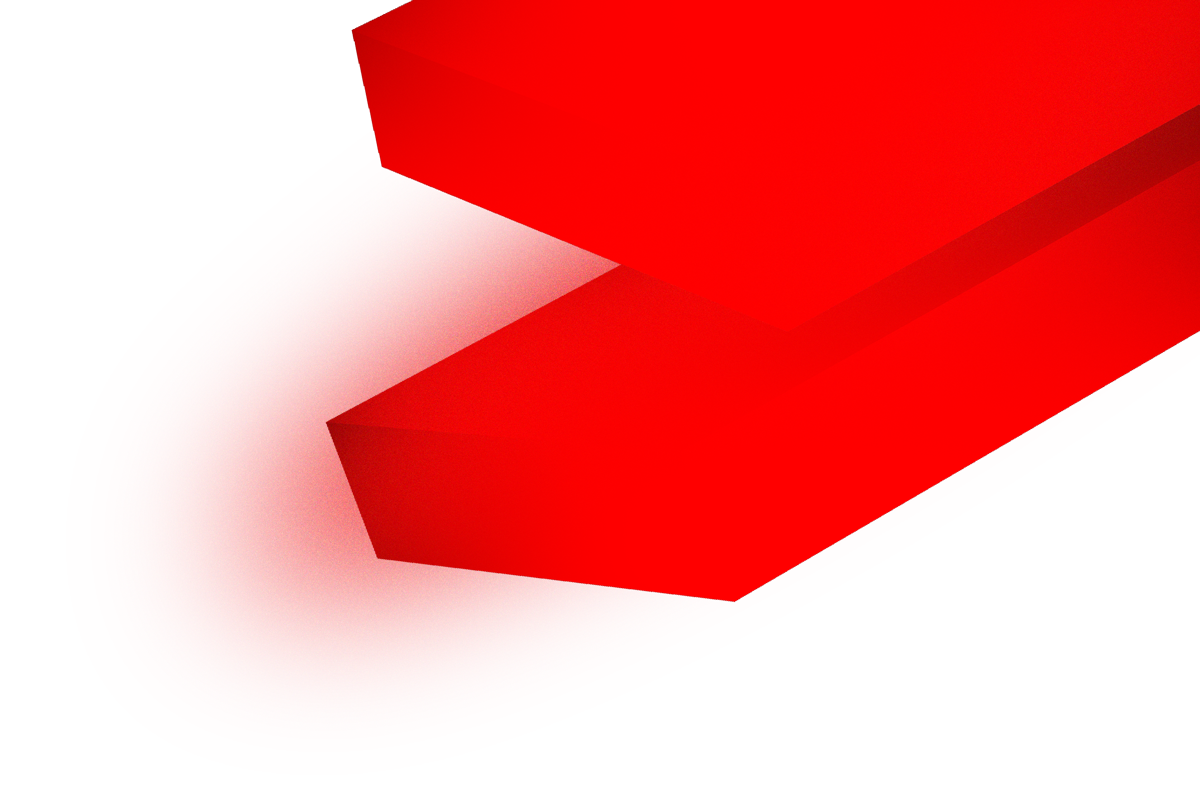
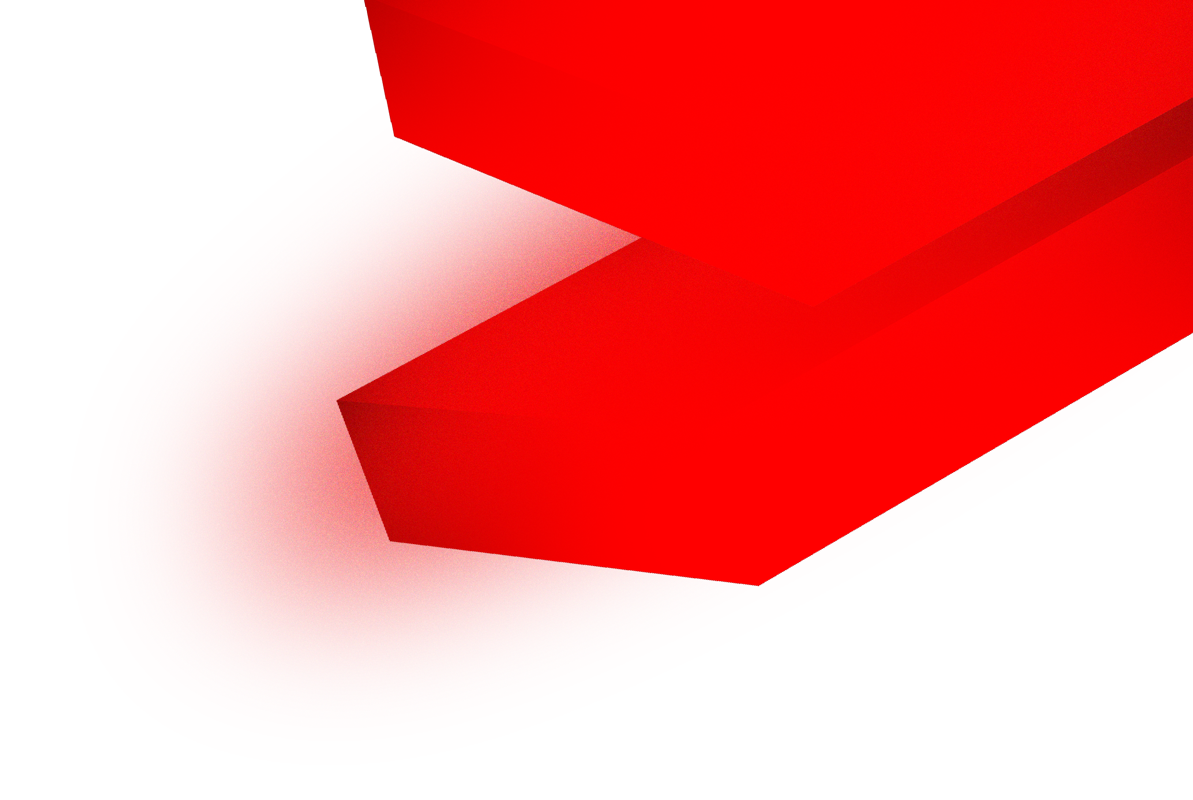
home page wrapper created

diff --git a/src/components/wrappers/HomePageWrapper.jsx b/src/components/wrappers/HomePageWrapper.jsx
@@ -1,0 +1,43 @@
+"use client";
+
+import { usePathname } from "@/i18n/navigation";
+import Image from "next/image";
+import React from "react";
+
+const HomePageWrapper = ({ children }) => {
+  const pathname = usePathname();
+
+  console.log(pathname);
+
+  if (pathname !== "/") {
+    return children;
+  }
+
+  return (
+    <div className="relative overflow-x-hidden">
+      <div className="absolute top-0 right-0 w-3/4 md:max-w-[1200px] z-0">
+        <Image
+          src="/bg-header.png"
+          alt="bg-header"
+          priority
+          width={1200}
+          height={809}
+          className="w-full h-auto"
+        />
+      </div>
+      <div className="absolute bottom-0 max-w-[769px] right-0 z-0">
+        <Image
+          src="/bg-footer.png"
+          alt="bg-footer"
+          width={769}
+          priority
+          height={300}
+          className="w-full h-auto"
+        />
+      </div>
+      <div className="relative">{children}</div>
+    </div>
+  );
+};
+
+export default HomePageWrapper;

diff --git a/src/components/webpages/Home.jsx b/src/components/webpages/Home.jsx
@@ -8,26 +8,7 @@ function Home() {
   const t = useTranslations("HomePage");
 
   return (
-    <div className="min-h-[calc(100vh-288px)] flex flex-col md:justify-end relative pb-12">
-      <div className="fixed top-0 right-0 max-w-[1000px] z-0">
-        <Image
-          src="/bg-header.png"
-          alt="bg-header"
-          width={1200}
-          height={809}
-          className="w-full h-auto"
-        />
-      </div>
-      <div className="fixed bottom-0 max-w-[769px] right-0 z-0">
-        <Image
-          src="/bg-footer.png"
-          alt="bg-footer"
-          width={769}
-          height={300}
-          className="w-full h-auto"
-        />
-      </div>
-
+    <div className="min-h-[calc(100vh-130px)] w-full flex flex-col justify-end relative pb-32">
       <HeaderMotion animation={fadeInLeft(1)} className="mb-12 md:mb-32 z-10">
         {t("ko_smo_mi")}
       </HeaderMotion>

diff --git a/src/app/[locale]/(black-layout)/layout.js b/src/app/[locale]/(black-layout)/layout.js
@@ -1,12 +1,15 @@
 import Navbar from "@/components/Navbar";
+import HomePageWrapper from "@/components/wrappers/HomePageWrapper";
 
 export default async function DarkLayout({ children }) {
   return (
     <div className="min-h-screen bg-black text-white antialiased">
-      <div className="w-[80%] mx-auto pt-10 md:pt-12">
-        <Navbar variant="black" />
-        <main className="py-12 md:py-24">{children}</main>
-      </div>
+      <HomePageWrapper>
+        <div className="w-[80%] mx-auto">
+          <Navbar variant="black" />
+          <main>{children}</main>
+        </div>
+      </HomePageWrapper>
     </div>
   );
 }

diff --git a/src/components/Navbar.jsx b/src/components/Navbar.jsx
@@ -9,7 +9,7 @@ const Navbar = ({ variant = "light" }) => {
   const t = useTranslations("Navbar");
 
   return (
-    <nav className="flex justify-between items-center">
+    <nav className="flex justify-between items-center min-h-[130px] h-auto max-h-[180px]">
       <Logo variant={variant} />
       <div className="flex gap-1 md:gap-14 items-center">
         <LocaleSwitcher />

diff --git a/src/app/[locale]/(black-layout)/services/page.js b/src/app/[locale]/(black-layout)/services/page.js
@@ -16,9 +16,11 @@ const ServicesPage = () => {
   const t = useTranslations("ServicesPage");
   return (
     <PagesWrapper title={t("usluge")}>
-      <h2>{t("uslugeNaslov")}</h2>
-      <div>
-        <Services />
+      <div className="py-20">
+        <h2>{t("uslugeNaslov")}</h2>
+        <div>
+          <Services />
+        </div>
       </div>
     </PagesWrapper>
   );

diff --git a/src/app/[locale]/(black-layout)/page.js b/src/app/[locale]/(black-layout)/page.js
@@ -1,4 +1,5 @@
 import Home from "@/components/webpages/Home";
+import HomePageWrapper from "@/components/wrappers/HomePageWrapper";
 import { getTranslations } from "next-intl/server";
 import React from "react";
 
@@ -13,5 +14,6 @@ export async function generateMetadata() {
 const HomePage = () => {
   return <Home />;
 };
+1;
 
 export default HomePage;

diff --git a/src/app/[locale]/(white-layout)/layout.js b/src/app/[locale]/(white-layout)/layout.js
@@ -2,7 +2,7 @@ import Navbar from "@/components/Navbar";
 
 export default async function LightLayout({ children }) {
   return (
-    <div className="w-[80%] mx-auto pt-10 md:pt-12">
+    <div className="w-[80%] mx-auto">
       <Navbar variant="light" />
       <main className="py-12 md:py-24">{children}</main>
     </div>
